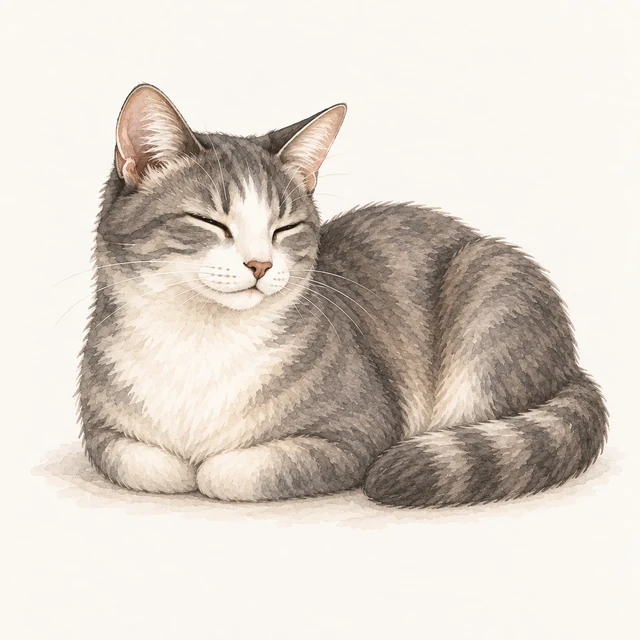
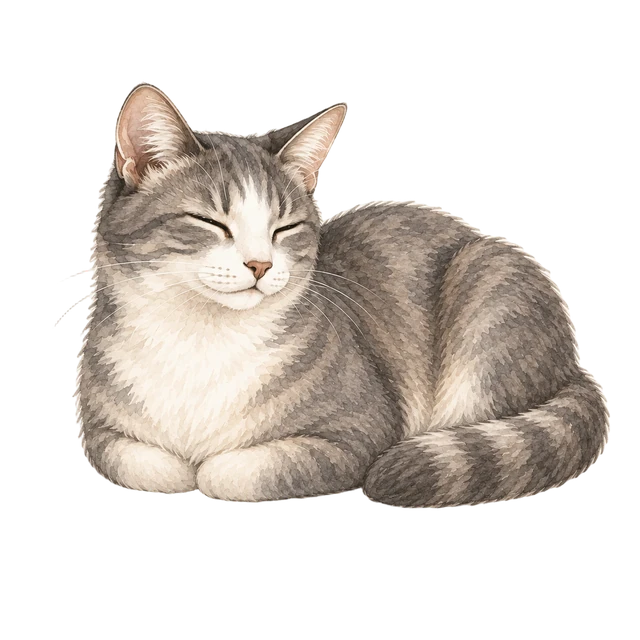
fix: make cat illustrations transparent and theme adaptable

Changed region(s): [[0.0312, 0.6875, 0.9688, 0.8438]]

diff --git a/src/utils/reminderVisuals.ts b/src/utils/reminderVisuals.ts
@@ -14,7 +14,7 @@ import catEyeCare from '../assets/illustrations/mascot/cat-eye-care.png'
 import catRest from '../assets/illustrations/mascot/cat-rest.png'
 import catSnooze from '../assets/illustrations/mascot/cat-snooze.png'
 import { messages } from '../i18n/messages'
-import { getMascotAsset, normalizeMascotStyle } from './mascotStyles'
+import { getMascotAsset } from './mascotStyles'
 
 export type ReminderTypeKey = 'drink' | 'rest' | 'eye_care' | 'custom'
 export type CustomReminderIconKey = 'custom_star' | 'custom_bell' | 'custom_checklist' | 'custom_leaf'
@@ -50,7 +50,6 @@ export interface ReminderVisual {
   badgeBackground: string
   iconAsset?: string
   mascotAsset?: string
-  illustrationBackground?: string
   statusAsset?: string
   iconText?: string
 }
@@ -139,7 +138,6 @@ export function getReminderVisual(type: string, icon?: string, style: MascotStyl
       ...visual,
       mascotAsset: getMascotAsset(style, visual.type),
       statusAsset: getMascotAsset(style, 'snooze'),
-      illustrationBackground: normalizeMascotStyle(style) === 'classic' ? undefined : '#f7f5f0',
     }
   }
 

diff --git a/src/components/NotificationCard.vue b/src/components/NotificationCard.vue
@@ -33,7 +33,7 @@ const notificationStyle = computed(() => ({
 <template>
   <div class="notification-wrapper" :class="{ 'notification-wrapper-visible': visible }">
     <div v-if="visible" class="notification-shell" :style="notificationStyle" :aria-label="preview ? t('settings.previewReminder') : undefined">
-      <div class="notification-visual" :style="{ background: visual.illustrationBackground }">
+      <div class="notification-visual">
         <img
           v-if="visual.mascotAsset"
           :src="breakMode ? visual.statusAsset || visual.mascotAsset : visual.mascotAsset"
@@ -157,12 +157,14 @@ const notificationStyle = computed(() => ({
 }
 
 .notification-visual {
+  position: relative;
   display: flex;
   align-items: center;
   justify-content: center;
   overflow: hidden;
   border-radius: 18px;
-  background: linear-gradient(180deg, rgba(255, 255, 255, 0.54), var(--notification-soft));
+  border: 1px solid var(--notification-border);
+  background: linear-gradient(180deg, var(--bg-secondary), var(--notification-soft));
 }
 
 .notification-image {

diff --git a/src/components/MascotStyleSettings.vue b/src/components/MascotStyleSettings.vue
@@ -67,7 +67,7 @@ function closePreview() {
     <div class="mascot-options" role="radiogroup" :aria-labelledby="`${groupId}-title`">
       <label v-for="option in mascotStyleOptions" :key="option.id" class="mascot-option" :class="{ 'mascot-option-selected': model === option.id }">
         <input v-model="model" :name="groupId" :value="option.id" :disabled="disabled" class="mascot-radio" type="radio">
-        <span class="mascot-thumbnail" :class="{ 'mascot-thumbnail-paper': option.id !== 'classic' }">
+        <span class="mascot-thumbnail">
           <img :src="option.image" alt="" class="mascot-image" width="112" height="112">
         </span>
         <span class="mascot-name">{{ t(option.nameKey) }}</span>
@@ -178,10 +178,6 @@ function closePreview() {
   border-radius: 9px;
   background: var(--bg-secondary);
   overflow: hidden;
-}
-
-.mascot-thumbnail-paper {
-  background: #f7f5f0;
 }
 
 .mascot-image {
